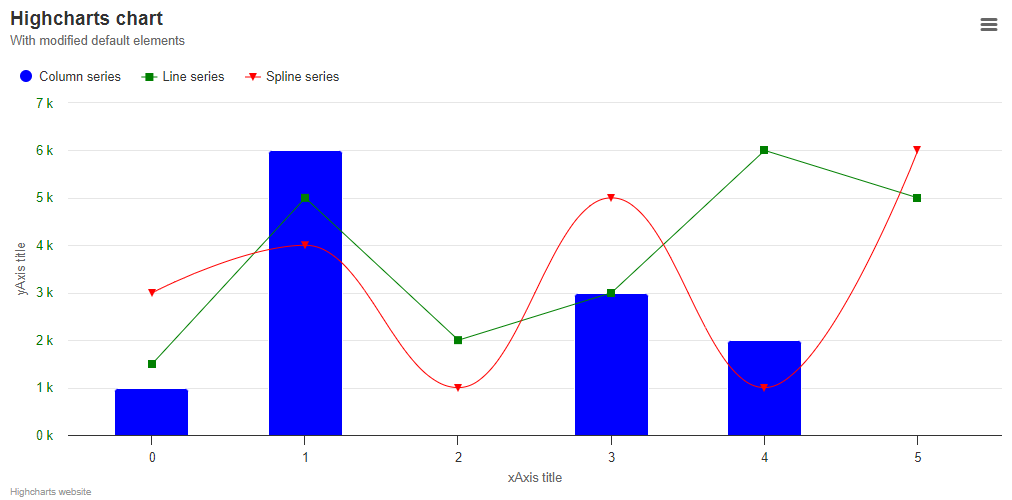
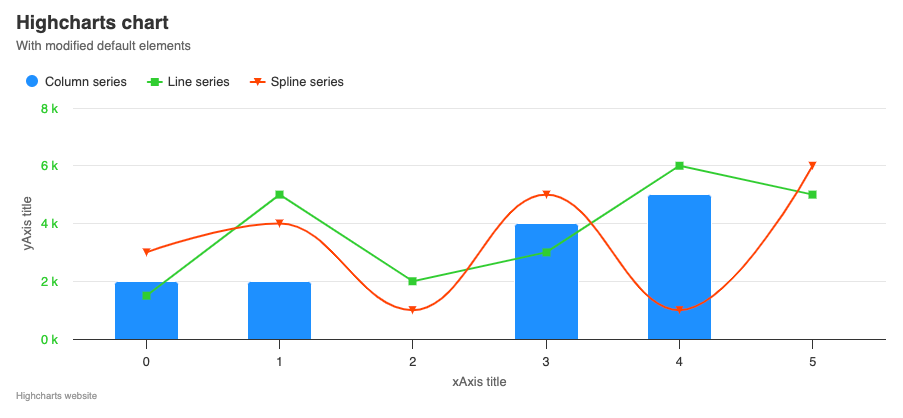
Improved 0th exercise description and changed colors for the exercise.

diff --git a/tests/specs/h00.test.cy.js b/tests/specs/h00.test.cy.js
@@ -1,105 +1,180 @@
-describe('00-initial-chart-tests', () => {
-  beforeEach('passes', () => {
-      cy.visit('../../exercises/00-initial-chart/index.html');
+describe("00-initial-chart-tests", () => {
+  beforeEach("passes", () => {
+    cy.visit("../../exercises/00-initial-chart/index.html");
   });
 
-  it('should check if series are drawn correctly', () => {
-      cy.window().its('Highcharts').then(Highcharts => {
-          const chart = Highcharts.charts[0];
-
-          const expectedValues = {
-            column: {
-              pointsLength: 5,
-              color: 'blue',
-              specificAssertions: series => {
-                assert.strictEqual(series.points[2].y, null, 'The third point of the column series should be equal to null');
-              }
-            },
-            line: {
-              pointsLength: 6,
-              color: 'green',
-              symbol: 'square'
-            },
-            spline: {
-              pointsLength: 6,
-              color: 'red',
-              symbol: 'triangle-down'
-            }
-          };
-          
-          assert.strictEqual(chart.series.length, 3, 'There are three series.');
-          
-          chart.series.forEach(series => {
-            const { type, points, color, symbol } = series;
-
-            const expected = expectedValues[type];
-            if (!expected) {
-              throw new Error(`Unexpected series type: ${type}`);
-            }
-          
-            assert.strictEqual(type, type, `There's one ${type} series on the chart`);
-            assert.strictEqual(points.length, expected.pointsLength, `There are ${expected.pointsLength} points in the ${type} series`);
-            assert.strictEqual(color, expected.color, `The ${type} series is ${expected.color}`);
-            
-            if (expected.symbol) {
-              assert.strictEqual(symbol, expected.symbol, `The ${type} series symbol is ${expected.symbol}`);
-            }
-            
-            if (expected.specificAssertions) {
-              expected.specificAssertions(series);
-            }
-          });
-      });
-  });
-
-  it('should check if axes are set correctly', () => {
-    cy.window().its('Highcharts').then(Highcharts => {
+  it("should check if series are drawn correctly", () => {
+    cy.window()
+      .its("Highcharts")
+      .then((Highcharts) => {
         const chart = Highcharts.charts[0];
 
-        assert.strictEqual(chart.xAxis[0].userOptions.title.text, 'xAxis title', 'xAxis title should be named: xAxis title');
+        const expectedValues = {
+          column: {
+            pointsLength: 5,
+            color: "#1E90FF",
+            specificAssertions: (series) => {
+              assert.strictEqual(
+                series.points[2].y === 0 ||
+                  series.points[2].y === undefined ||
+                  series.points[2].y === null,
+                true,
+                "The third point of the column series should be equal to 0, undefined, or null"
+              );
+            },
+          },
+          line: {
+            pointsLength: 6,
+            color: "#32CD32",
+            symbol: "square",
+          },
+          spline: {
+            pointsLength: 6,
+            color: "#FF4500",
+            symbol: "triangle-down",
+          },
+        };
 
-        assert.strictEqual(chart.yAxis[0].userOptions.title.text, 'yAxis title', 'yAxis title should be named: yAxis title');
-        assert.strictEqual(chart.yAxis[0].userOptions.labels.style.color, 'green', 'yAxis labels color should be set to green');
-        assert.strictEqual(chart.yAxis[0].userOptions.labels.format, '{text} k', 'yAxis labels should have "k" at the end');
-    });  
+        assert.strictEqual(chart.series.length, 3, "There are three series.");
+
+        chart.series.forEach((series) => {
+          const { type, points, color, symbol } = series;
+
+          const expected = expectedValues[type];
+          if (!expected) {
+            throw new Error(`Unexpected series type: ${type}`);
+          }
+
+          assert.strictEqual(
+            type,
+            type,
+            `There's one ${type} series on the chart`
+          );
+          assert.strictEqual(
+            points.length,
+            expected.pointsLength,
+            `There are ${expected.pointsLength} points in the ${type} series`
+          );
+          assert.strictEqual(
+            color,
+            expected.color,
+            `The ${type} series is ${expected.color}`
+          );
+
+          if (expected.symbol) {
+            assert.strictEqual(
+              symbol,
+              expected.symbol,
+              `The ${type} series symbol is ${expected.symbol}`
+            );
+          }
+
+          if (expected.specificAssertions) {
+            expected.specificAssertions(series);
+          }
+        });
+      });
   });
 
-  it('should check minor chart elements settings', () => {
-    cy.window().its('Highcharts').then(Highcharts => {
+  it("should check if axes are set correctly", () => {
+    cy.window()
+      .its("Highcharts")
+      .then((Highcharts) => {
+        const chart = Highcharts.charts[0];
+
+        assert.strictEqual(
+          chart.xAxis[0].userOptions.title.text,
+          "xAxis title",
+          "xAxis title should be named: xAxis title"
+        );
+
+        assert.strictEqual(
+          chart.yAxis[0].userOptions.title.text,
+          "yAxis title",
+          "yAxis title should be named: yAxis title"
+        );
+        assert.strictEqual(
+          chart.yAxis[0].userOptions.labels.style.color,
+          "#32CD32",
+          "yAxis labels color should be set to green"
+        );
+        assert.strictEqual(
+          chart.yAxis[0].userOptions.labels.format,
+          "{text} k",
+          'yAxis labels should have "k" at the end'
+        );
+      });
+  });
+
+  it("should check minor chart elements settings", () => {
+    cy.window()
+      .its("Highcharts")
+      .then((Highcharts) => {
         const chartOptions = Highcharts.charts[0].userOptions;
 
-        expect(chartOptions.title.text, 'The chart title should be set to "Highcharts chart"').to.equal('Highcharts chart');
-        expect(chartOptions.title.align, 'The chart title should be aligned to the left').to.equal('left');
+        expect(
+          chartOptions.title.text,
+          'The chart title should be set to "Highcharts chart"'
+        ).to.equal("Highcharts chart");
+        expect(
+          chartOptions.title.align,
+          "The chart title should be aligned to the left"
+        ).to.equal("left");
 
-        expect(chartOptions.subtitle.text, 'The subtitle should be set to "With modified default elements"').to.equal('With modified default elements');
-        expect(chartOptions.subtitle.align, 'The subtitle should be aligned to the left').to.equal('left');
+        expect(
+          chartOptions.subtitle.text,
+          'The subtitle should be set to "With modified default elements"'
+        ).to.equal("With modified default elements");
+        expect(
+          chartOptions.subtitle.align,
+          "The subtitle should be aligned to the left"
+        ).to.equal("left");
 
-        expect(chartOptions.legend.align, 'The legend should be aligned to the left').to.equal('left');
-        expect(chartOptions.legend.verticalAlign, 'The legend should be vertically aligned to the top').to.equal('top');
+        expect(
+          chartOptions.legend.align,
+          "The legend should be aligned to the left"
+        ).to.equal("left");
+        expect(
+          chartOptions.legend.verticalAlign,
+          "The legend should be vertically aligned to the top"
+        ).to.equal("top");
 
-        expect(chartOptions.credits.text, 'The credits text should be set to "Highcharts website"').to.equal('Highcharts website');
-        expect(chartOptions.credits.position.align, 'The credits should be aligned to the left').to.equal('left');
+        expect(
+          chartOptions.credits.text,
+          'The credits text should be set to "Highcharts website"'
+        ).to.equal("Highcharts website");
+        expect(
+          chartOptions.credits.position.align,
+          "The credits should be aligned to the left"
+        ).to.equal("left");
+      });
+  });
 
-    });  
-  });  
-
-  it('should check if default colors and symbols were set by Highcharts.setOptions', () => {
-    cy.window().then(win => {
+  it("should check if default colors and symbols were set by Highcharts.setOptions", () => {
+    cy.window().then((win) => {
       const defaultOptions = win.Highcharts.getOptions();
 
-      expect(defaultOptions.colors).to.deep.equal(['blue', 'green', 'red'], 'Colors (blue, green and red) should be set through .setOptions');
-      expect(defaultOptions.symbols).to.deep.equal(['square', 'triangle-down', 'circle'], 'Symbols (square, triangle-down and circle) should be set through .setOptions');
+      expect(defaultOptions.colors).to.deep.equal(
+        ["#1E90FF", "#32CD32", "#FF4500"],
+        "Colors (blue, green and red) should be set through .setOptions"
+      );
+      expect(defaultOptions.symbols).to.deep.equal(
+        ["square", "triangle-down", "circle"],
+        "Symbols (square, triangle-down and circle) should be set through .setOptions"
+      );
     });
   });
 
-  it('should check if two modules are loaded', () => {
-    cy.window().its('Highcharts').then(Highcharts => {
-      const chart = Highcharts.charts[0];
-      const modules = ['exporting', 'accessibility'];
+  it("should check if two modules are loaded", () => {
+    cy.window()
+      .its("Highcharts")
+      .then((Highcharts) => {
+        const chart = Highcharts.charts[0];
+        const modules = ["exporting", "accessibility"];
 
-      modules.forEach(module => {
-        expect(chart[module], `${module} should be imported`).to.exist;
+        modules.forEach((module) => {
+          expect(chart[module], `${module} should be imported`).to.exist;
+        });
       });
-    });
-  });  
+  });
 });

diff --git a/exercises/00-initial-chart/README.md b/exercises/00-initial-chart/README.md
@@ -1,5 +1,13 @@
 # Exercise 0 - Initial Chart
 
-The first task is relatively simple, it is intended to show how to modify the basic chart elements and default settings. Pay attention to the position and content of the title, subtitle and credits. Move the legend, modify axis titles, formatting and styles. Change the default colors and symbols using the Highcharts built-in method to set options for all charts. Include 2 basic modules. The clues for them will be the menu in the upper right corner and a warning in the console.
+The first task is to show how to modify the basic chart elements and default settings. Your chart should look exactly like the one in the provided photo.
+
+Pay attention to the position and content of the title, subtitle and credits. Move the legend, and modify the axis titles, formatting and styles. Change the default colors and symbols using the Highcharts built-in method to set options for all charts. Include 2 basic modules. The clues for them will be the menu in the upper right corner and a warning in the console.
+
+Colors to use for the exercise: 
+Blue: #1E90FF 
+Green: '#32CD32
+Red: #FF4500
+
 
 ![exercise.png](exercise.png)
